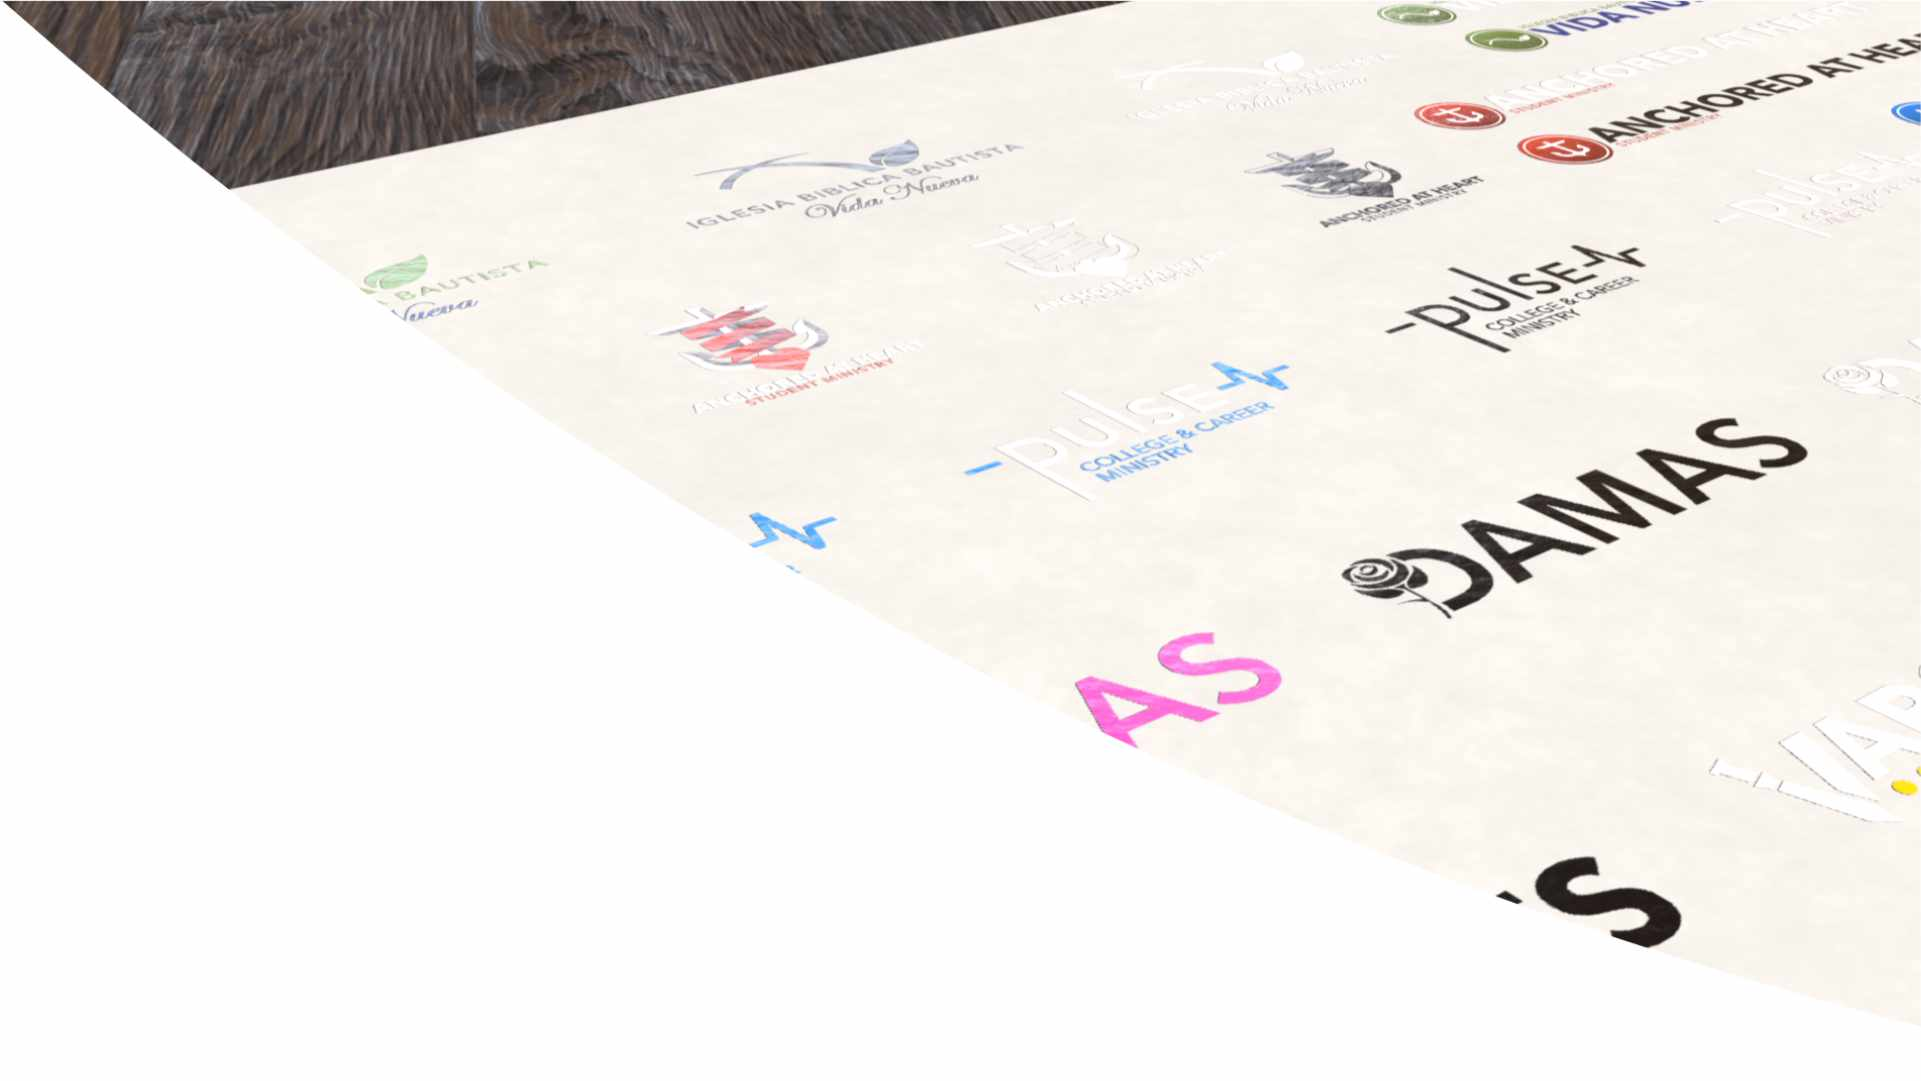
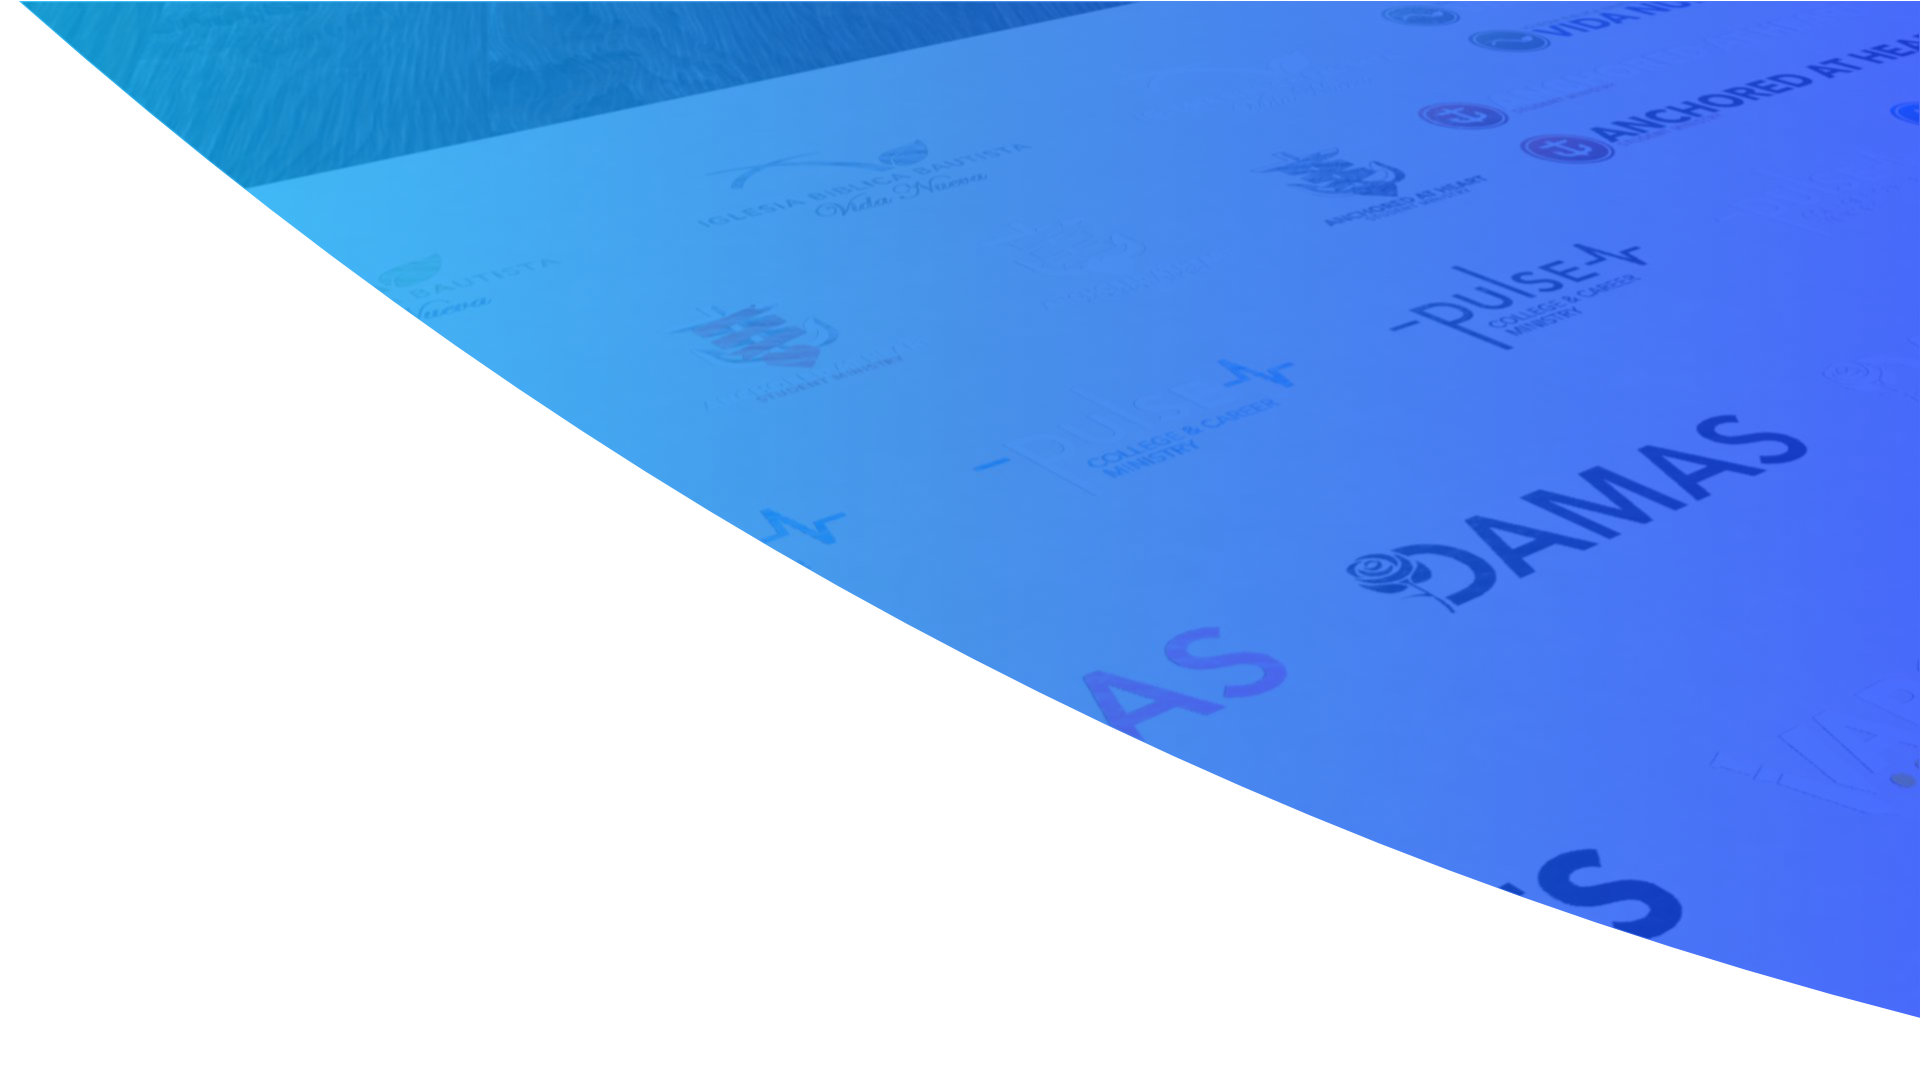
hero compatibility

diff --git a/css/skeleton.css b/css/skeleton.css
@@ -228,14 +228,14 @@ body {
     left: 0;
     width: 100%;
     height: 100%;
-    background: url(/images/mhero/mdesign2.svg);
+    background: url(/images/mhero/mdesign.jpg);
     background-repeat: no-repeat;
     background-size: cover;
     background-position: center bottom;
 
-    animation: mhero-slides 15s ease-in-out infinite forwards;
-    -webkit-animation: mhero-slides 15s ease-in-out infinite forwards;
-    -moz-animation: mhero-slides 15s ease-in-out infinite forwards;
+    animation: mhero-slides 15s ease-in-out infinite 2s forwards;
+    -webkit-animation: mhero-slides 15s ease-in-out infinite 2s forwards;
+    -moz-animation: mhero-slides 15s ease-in-out infinite 2s forwards;
   }
   .hero-content {
     display: block;
@@ -258,7 +258,7 @@ body {
     position: absolute;
     width: 100%;
     height: 100%;
-    background: url(/images/hero/design2.svg);
+    background: url(/images/hero/design.jpg);
     background-repeat: no-repeat;
     background-size: cover;
     background-position: right bottom;
@@ -317,7 +317,7 @@ body {
     background-size: cover;
     background-position: center bottom;
   }
-  10% {
+  20% {
     content: "";
     position: absolute;
     top: 0;
@@ -329,7 +329,7 @@ body {
     background-size: cover;
     background-position: center bottom;
   }
-  30% {
+  40% {
     content: "";
     position: absolute;
     top: 0;
@@ -341,7 +341,7 @@ body {
     background-size: cover;
     background-position: center bottom;
   }
-  50% {
+  60% {
     content: "";
     position: absolute;
     top: 0;
@@ -353,7 +353,7 @@ body {
     background-size: cover;
     background-position: center bottom;
   }
-  70% {
+  80% {
     content: "";
     position: absolute;
     top: 0;
@@ -361,18 +361,6 @@ body {
     width: 100%;
     height: 100%;
     background: url(/images/mhero/mux2.svg);
-    background-repeat: no-repeat;
-    background-size: cover;
-    background-position: center bottom;
-  }
-  90% {
-    content: "";
-    position: absolute;
-    top: 0;
-    left: 0;
-    width: 100%;
-    height: 100%;
-    background: url(/images/mhero/mdesign.svg);
     background-repeat: no-repeat;
     background-size: cover;
     background-position: center bottom;
@@ -466,7 +454,7 @@ body {
     background-size: cover;
     background-position: center bottom;
   }
-  10% {
+  20% {
     content: "";
     position: absolute;
     top: 0;
@@ -478,7 +466,7 @@ body {
     background-size: cover;
     background-position: center bottom;
   }
-  30% {
+  40% {
     content: "";
     position: absolute;
     top: 0;
@@ -490,7 +478,7 @@ body {
     background-size: cover;
     background-position: center bottom;
   }
-  50% {
+  60% {
     content: "";
     position: absolute;
     top: 0;
@@ -502,7 +490,7 @@ body {
     background-size: cover;
     background-position: center bottom;
   }
-  70% {
+  80% {
     content: "";
     position: absolute;
     top: 0;
@@ -510,18 +498,6 @@ body {
     width: 100%;
     height: 100%;
     background: url(/images/mhero/mux2.svg);
-    background-repeat: no-repeat;
-    background-size: cover;
-    background-position: center bottom;
-  }
-  90% {
-    content: "";
-    position: absolute;
-    top: 0;
-    left: 0;
-    width: 100%;
-    height: 100%;
-    background: url(/images/mhero/mdesign.svg);
     background-repeat: no-repeat;
     background-size: cover;
     background-position: center bottom;
@@ -615,7 +591,7 @@ body {
     background-size: cover;
     background-position: center bottom;
   }
-  10% {
+  20% {
     content: "";
     position: absolute;
     top: 0;
@@ -627,7 +603,7 @@ body {
     background-size: cover;
     background-position: center bottom;
   }
-  30% {
+  40% {
     content: "";
     position: absolute;
     top: 0;
@@ -639,7 +615,7 @@ body {
     background-size: cover;
     background-position: center bottom;
   }
-  50% {
+  60% {
     content: "";
     position: absolute;
     top: 0;
@@ -651,7 +627,7 @@ body {
     background-size: cover;
     background-position: center bottom;
   }
-  70% {
+  80% {
     content: "";
     position: absolute;
     top: 0;
@@ -659,18 +635,6 @@ body {
     width: 100%;
     height: 100%;
     background: url(/images/mhero/mux2.svg);
-    background-repeat: no-repeat;
-    background-size: cover;
-    background-position: center bottom;
-  }
-  90% {
-    content: "";
-    position: absolute;
-    top: 0;
-    left: 0;
-    width: 100%;
-    height: 100%;
-    background: url(/images/mhero/mdesign.svg);
     background-repeat: no-repeat;
     background-size: cover;
     background-position: center bottom;
@@ -750,6 +714,7 @@ body {
     background-position: right bottom;
   }
 }
+
 /* Typography
 –––––––––––––––––––––––––––––––––––––––––––––––––– */
 h1, h2, h3, h4, h5, h6 {
